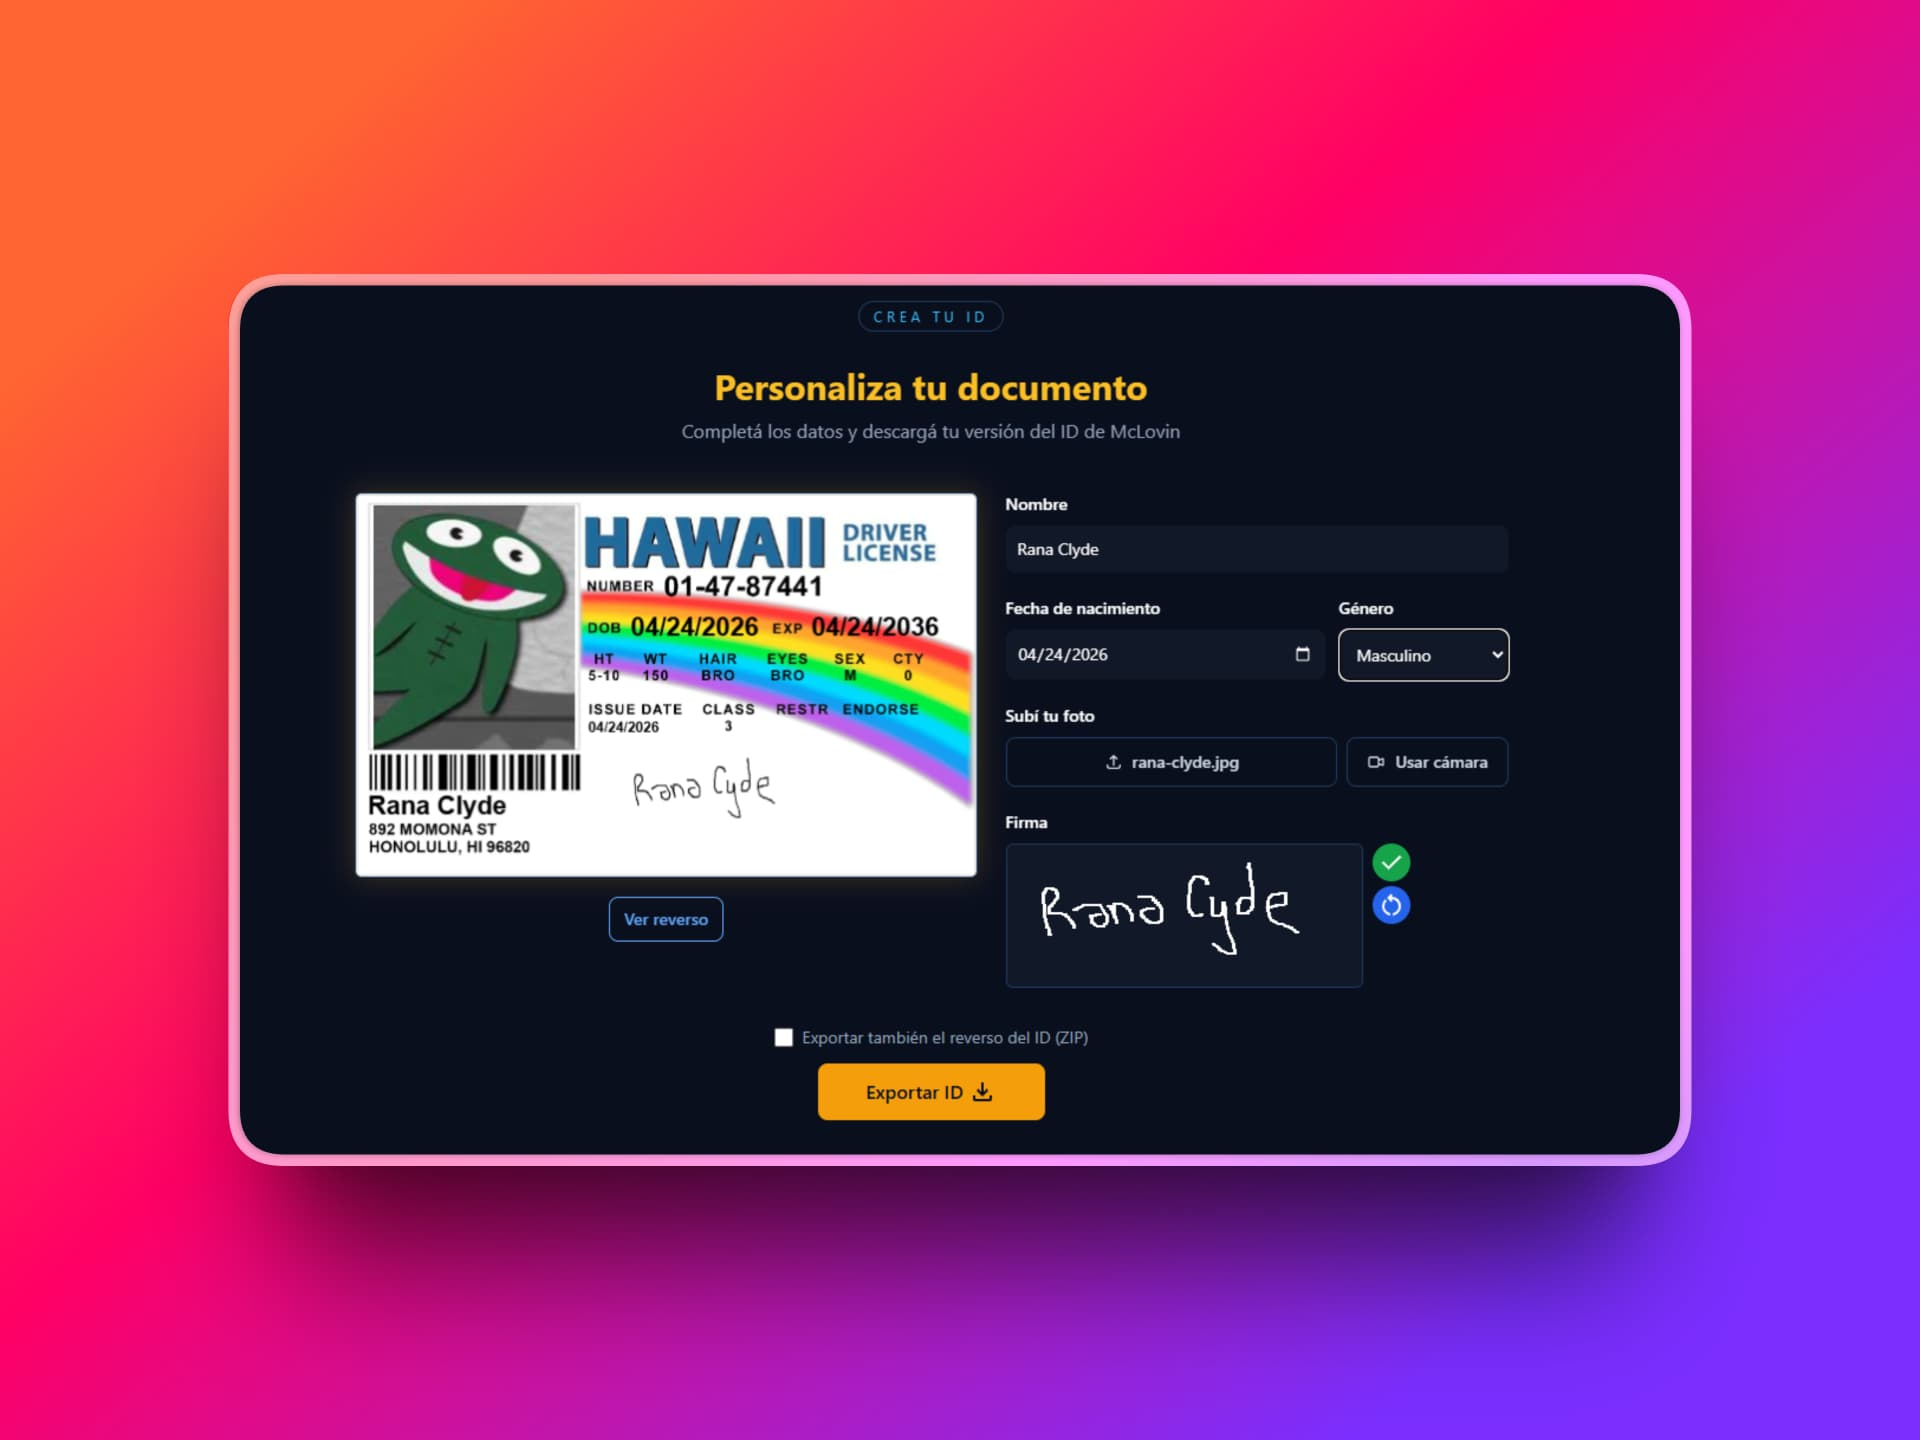
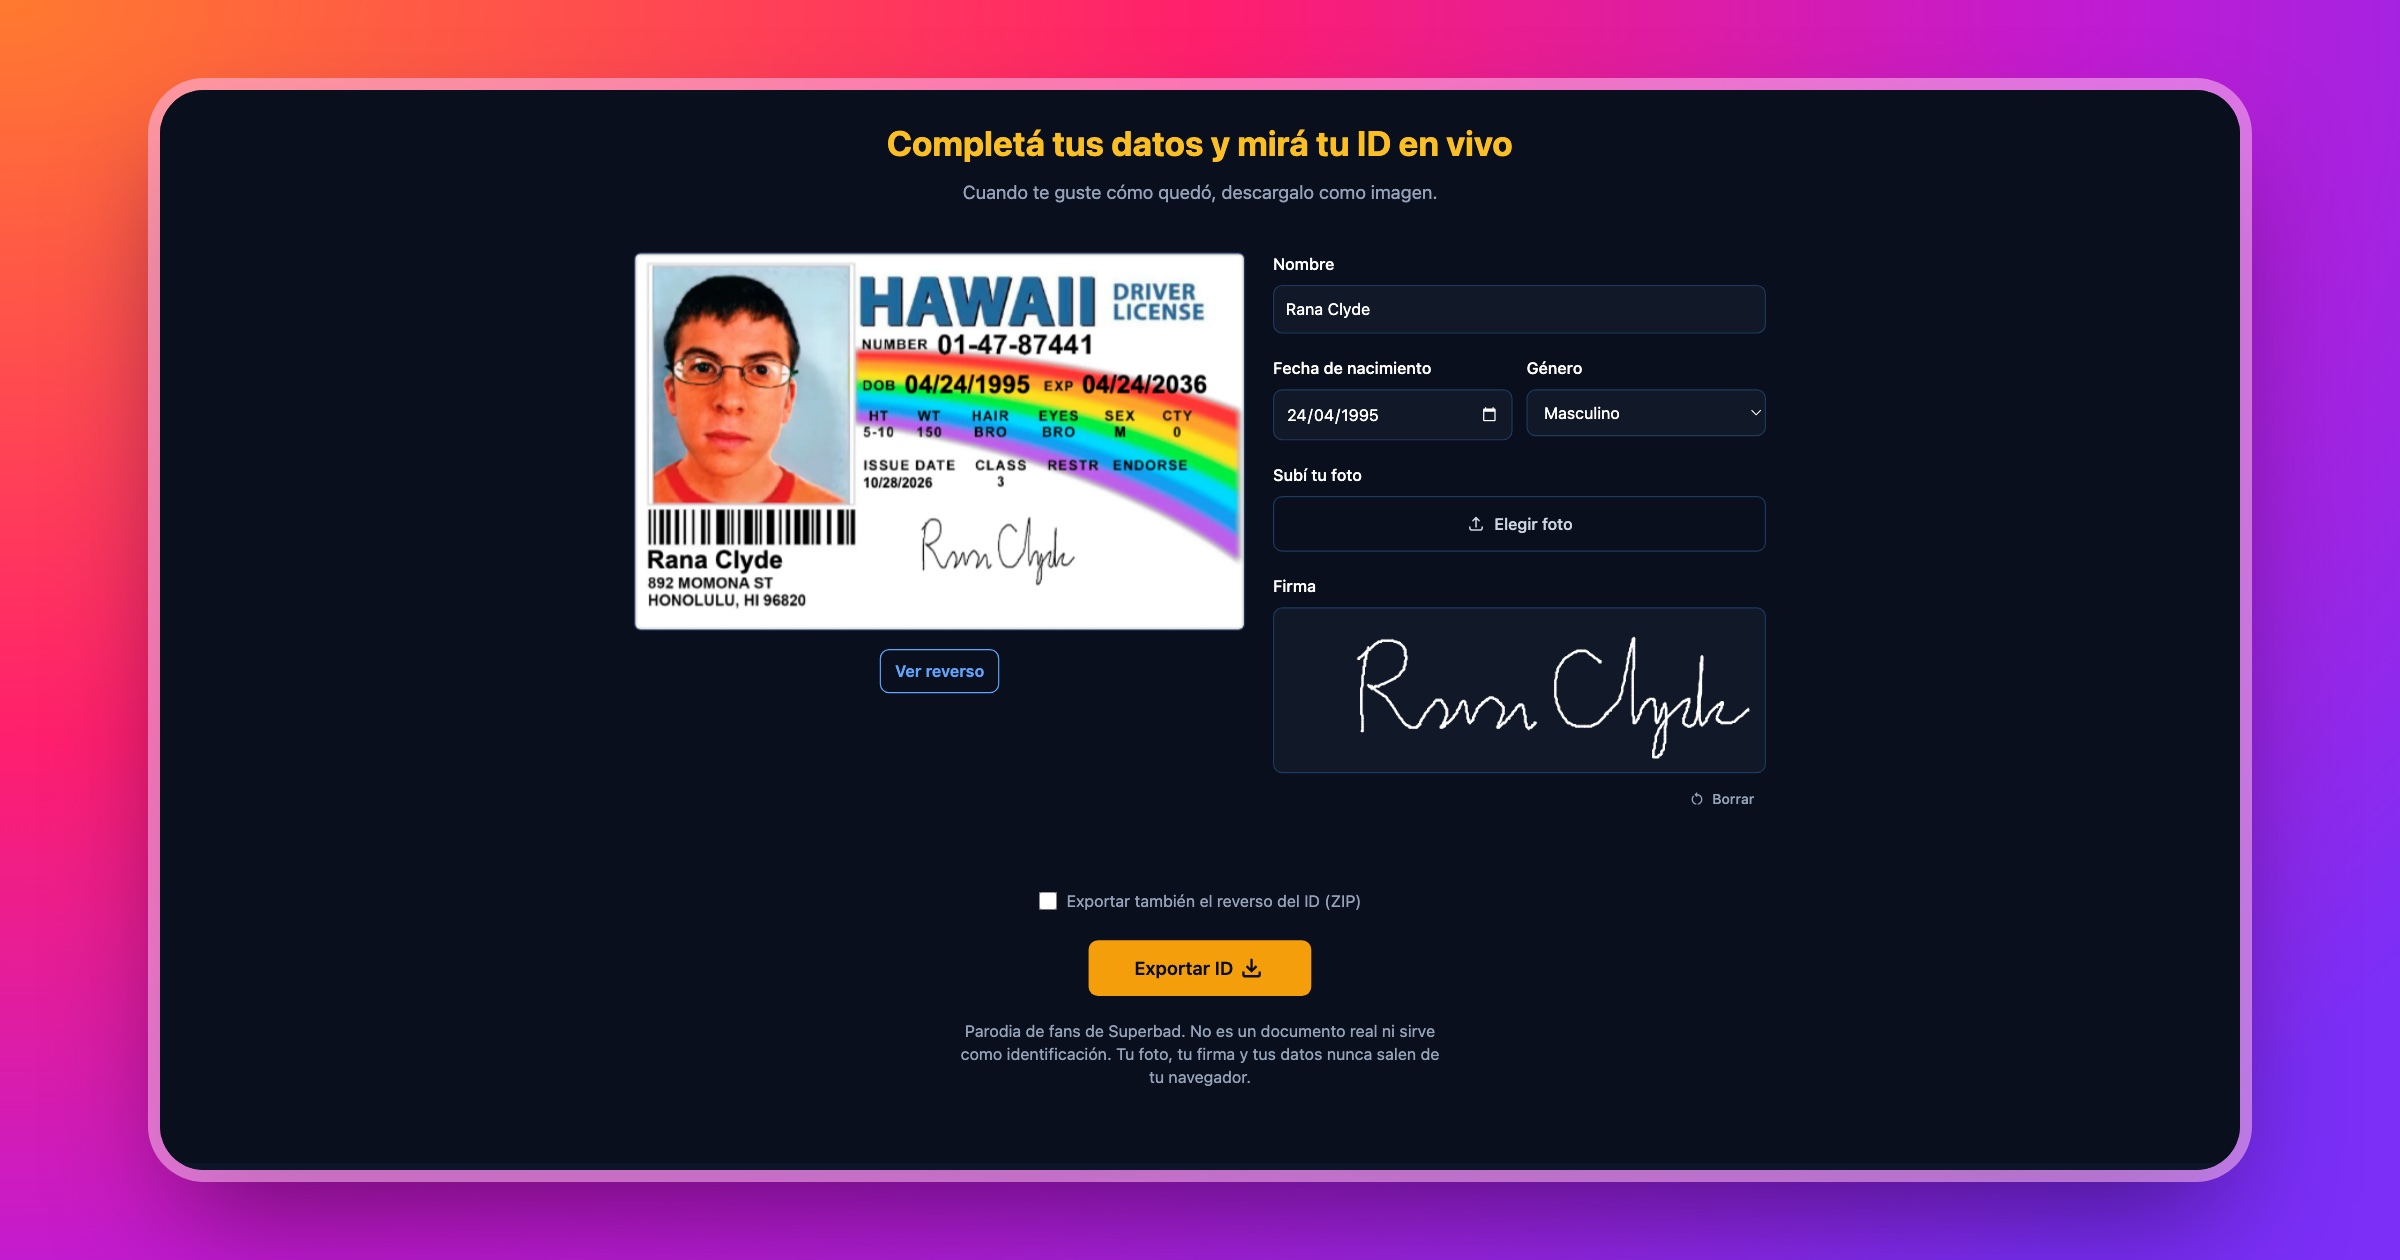
docs: refresh README and screenshot, fix Open Graph image size
- New 2400x1260 screenshot showing the current CreateID section
- Match og:image width/height to the actual image
- README: voseo tagline, privacy and mobile-first features, accurate project structure, parody notice

diff --git a/README.md b/README.md
@@ -2,7 +2,7 @@
 
 # 🪪 My McLovin ID
 
-**Crea tu propia versión del ID más famoso del cine**
+**Creá tu propia versión del ID más famoso del cine**
 
 [![Demo en vivo](https://img.shields.io/badge/Demo%20en%20vivo-mymclovinid.netlify.app-blue?style=for-the-badge&logo=netlify)](https://mymclovinid.netlify.app/)
 [![Astro](https://img.shields.io/badge/Astro-5.x-FF5D01?style=for-the-badge&logo=astro)](https://astro.build)
@@ -19,18 +19,22 @@
 
 Una webapp inspirada en el icónico ID falso de **Fogell / McLovin** de la película *Superbad* (2007). Completás tus datos, subís una foto, firmás y descargás tu propio documento estilo Hawaii — tal como haría McLovin.
 
+Es gratis, no necesitás registrarte y todo pasa en tu navegador: no hay backend, así que tu foto, tu firma y tus datos nunca se suben a ningún lado.
+
 ---
 
 ## ✨ Funcionalidades
 
-- **Personalización en tiempo real** — el ID se renderiza en canvas mientras escribís
+- **Personalización en tiempo real** — el ID se renderiza en canvas mientras escribís, con los datos de McLovin como valores por defecto
 - **Subida y recorte de foto** — con zoom y encuadre ajustable (powered by Croppie)
 - **Cámara integrada** — tomá una selfie directo desde el navegador
-- **Firma digital** — dibujá tu firma con el dedo o el mouse
+- **Firma digital** — dibujá tu firma con el dedo o el mouse; en desktop se aplica al ID apenas soltás
 - **Exportar como PNG** — descargá el frente del ID con un click
 - **Exportar ZIP** — descargá frente y reverso juntos como `.zip`
-- **Soporte i18n** — disponible en Español e Inglés
-- **Diseño responsive** — funciona en mobile y desktop
+- **Soporte i18n** — disponible en Español (`/`) e Inglés (`/en/`)
+- **Mobile-first** — vista previa arriba del formulario, controles táctiles de 48px y firma en un modal
+- **100% en el navegador** — sin backend ni cuentas; nada de lo que cargás sale de tu dispositivo
+- **Errores claros** — avisos si la imagen no es compatible, si no hay permiso de cámara o si falla la exportación
 
 ---
 
@@ -73,22 +77,29 @@ pnpm preview
 ```
 src/
 ├── pages/
-│   └── index.astro          # Página principal (single-page app)
+│   ├── index.astro           # Página en español (locale por defecto)
+│   └── en/index.astro        # Página en inglés
+├── layouts/
+│   └── Layout.astro          # <head> con SEO/Open Graph, animaciones on-scroll y estilos de toasts
 ├── sections/
-│   ├── CreateID.astro        # Formulario y lógica de creación del ID
+│   ├── Navbar.astro          # Barra superior con selector de idioma
 │   ├── Hero.astro            # Sección hero
-│   └── About.astro           # Sección sobre McLovin
+│   ├── CreateID.astro        # Formulario, exportación (PNG/ZIP) y flip del ID
+│   ├── AboutMcLovin.astro    # Sección sobre McLovin con video de YouTube (facade)
+│   └── Footer.astro          # Pie de página
 ├── components/
 │   ├── McLovinCanvas.astro   # Canvas que renderiza el ID en tiempo real
 │   ├── TakePhoto.astro       # Subida, recorte y cámara de foto
-│   └── Sign.astro            # Pad de firma digital
+│   ├── Sign.astro            # Pad de firma digital (inline en desktop, modal en mobile)
+│   └── ui/                   # Button, Input y Select
 ├── i18n/
 │   └── translations.ts       # Textos en ES e EN
 ├── const/
-│   └── mclovinData.ts        # Coordenadas de pixel para el canvas
+│   └── mclovinData.ts        # Valores por defecto y coordenadas de pixel para el canvas
 └── utils/
-    ├── domSelector.ts         # Shorthand tipado para querySelector
-    └── formattedDate.ts       # Formateo de fechas US MM/DD/YYYY
+    ├── domSelector.ts        # Shorthand tipado para querySelector
+    ├── formattedDate.ts      # Formateo de fechas US MM/DD/YYYY
+    └── toast.ts              # notify(): toasts accesibles sobre butterup-toast
 ```
 
 ---
@@ -98,6 +109,12 @@ src/
 > *"It's McLovin... just McLovin."*
 
 McLovin es el alter ego de Fogell en *Superbad* (2007). Con un único nombre en su ID falso del Estado de Hawaii —sin apellido, sin dirección—, se convirtió en uno de los momentos más icónicos de la comedia de los 2000s.
+
+---
+
+## ⚠ Aviso
+
+Este es un proyecto de fans, hecho como parodia. Los IDs generados **no son documentos reales** y no sirven como identificación. *Superbad* y sus personajes pertenecen a sus respectivos dueños.
 
 ---
 
